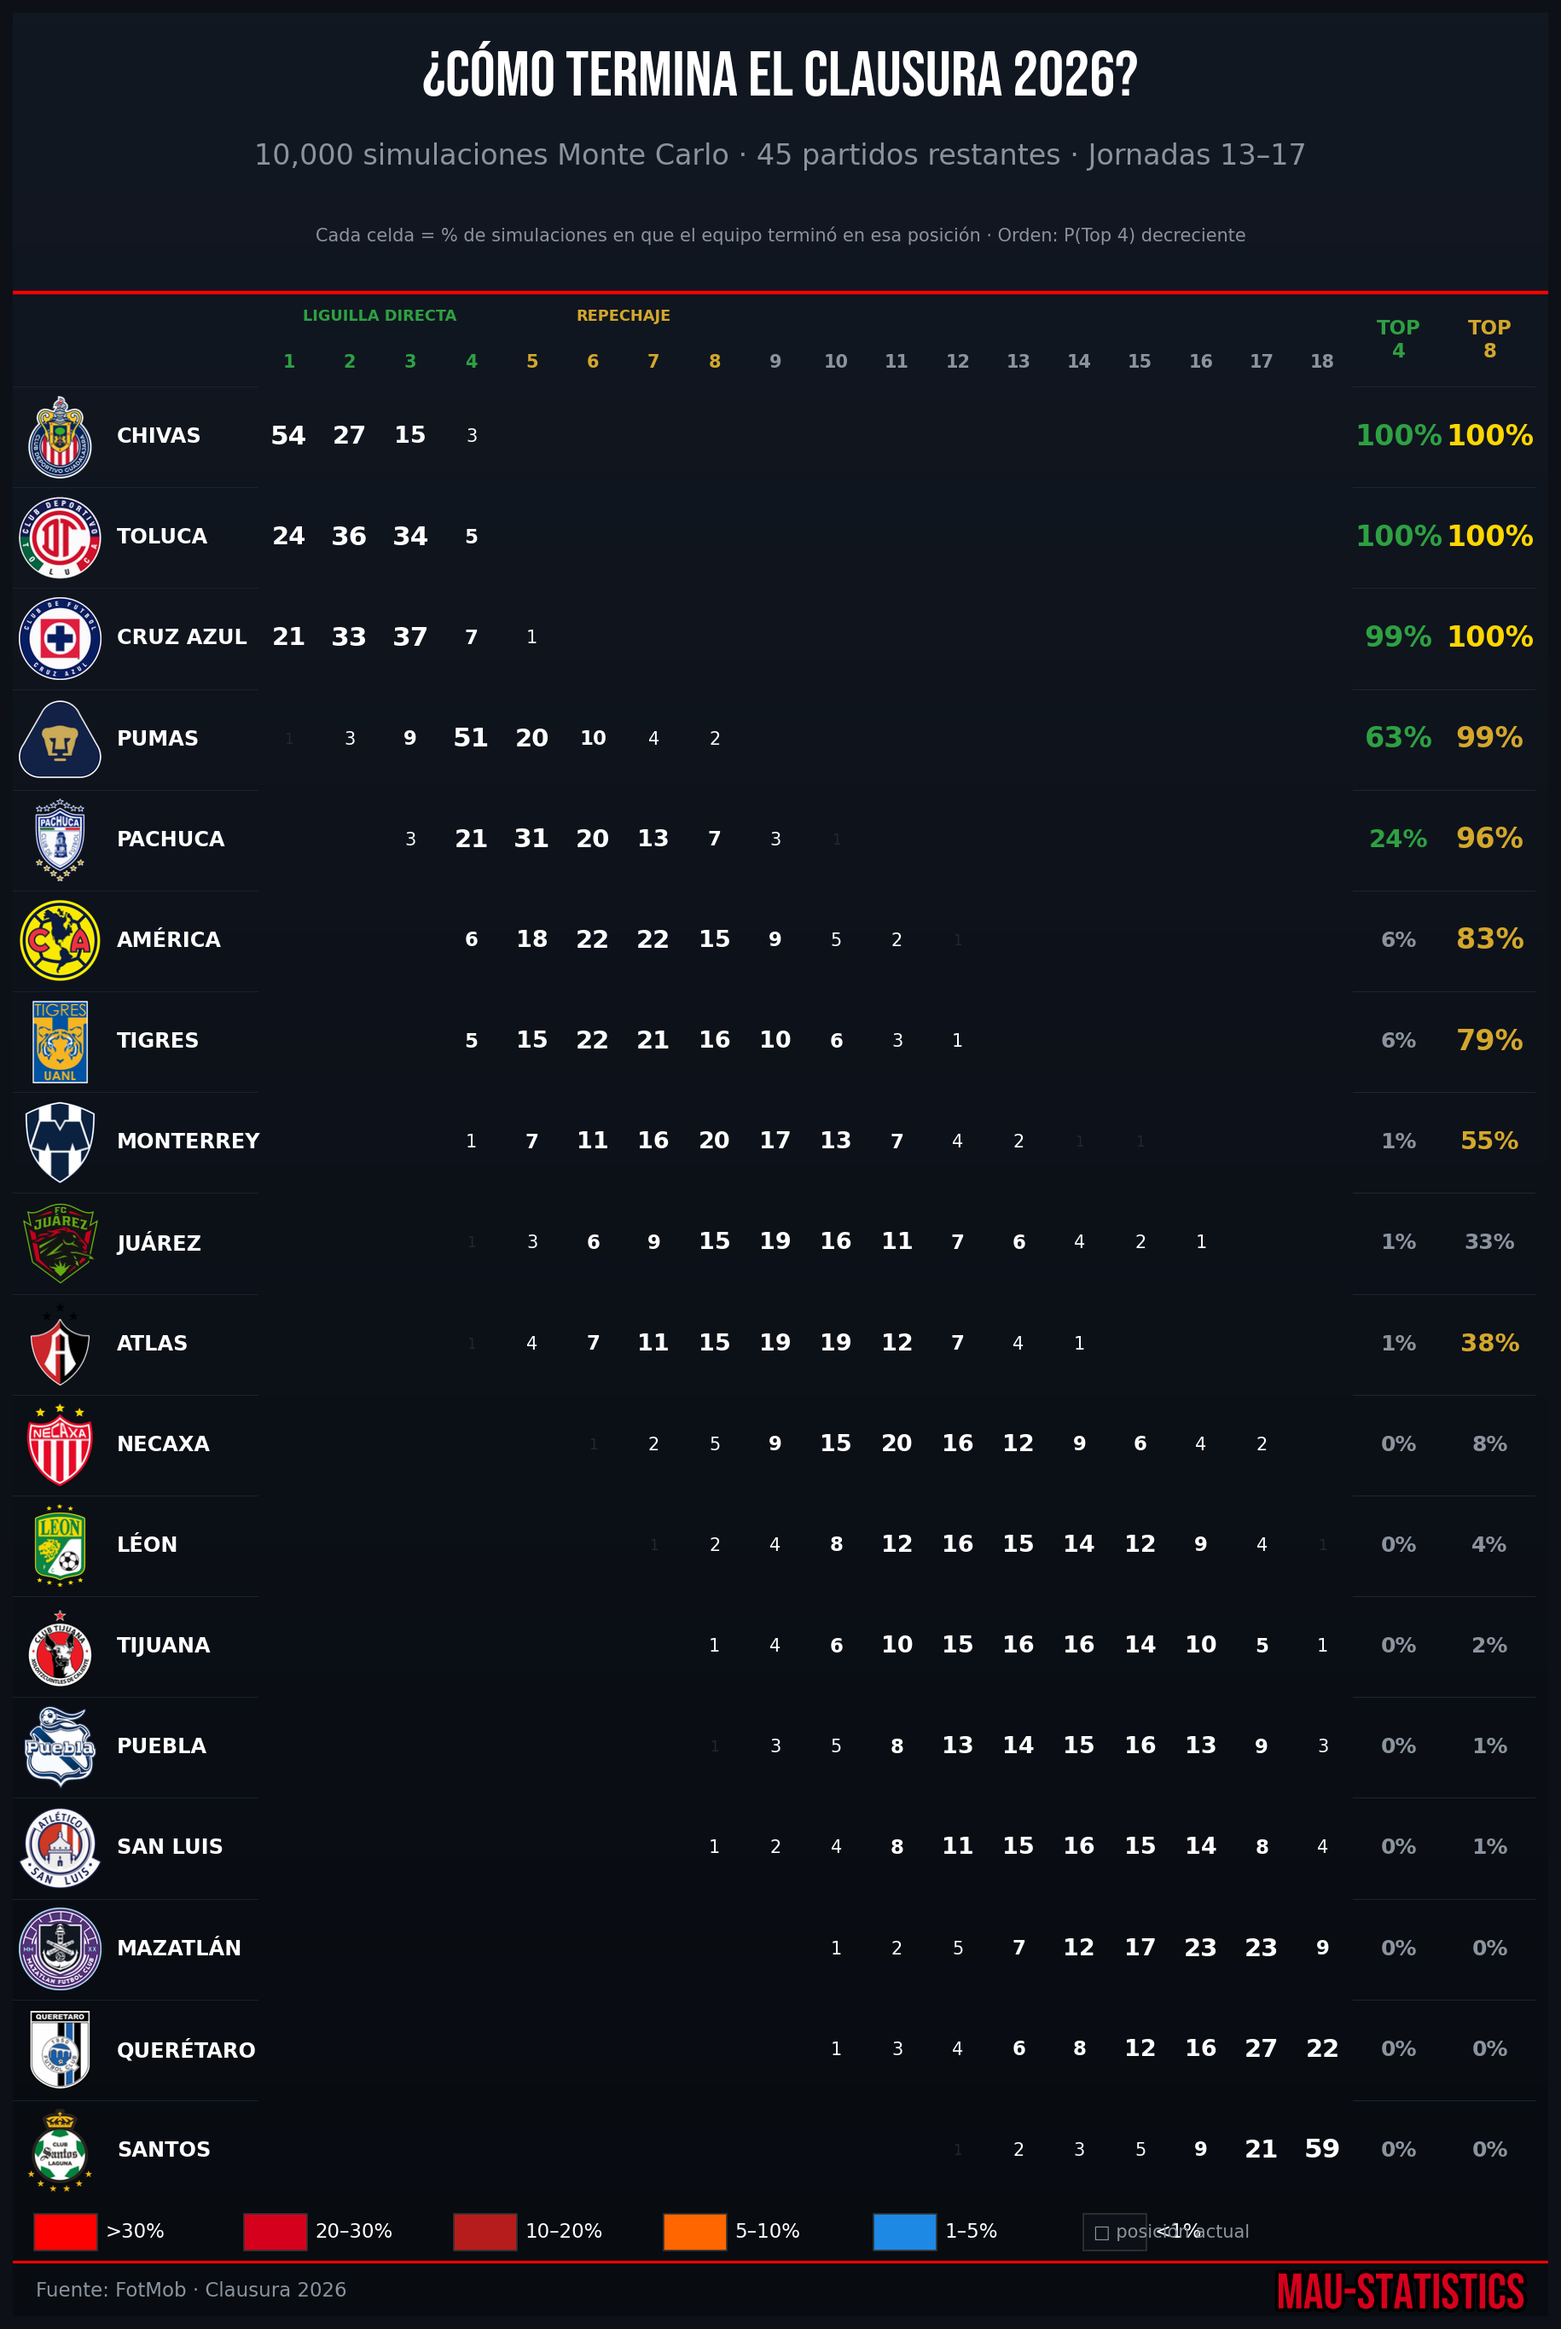
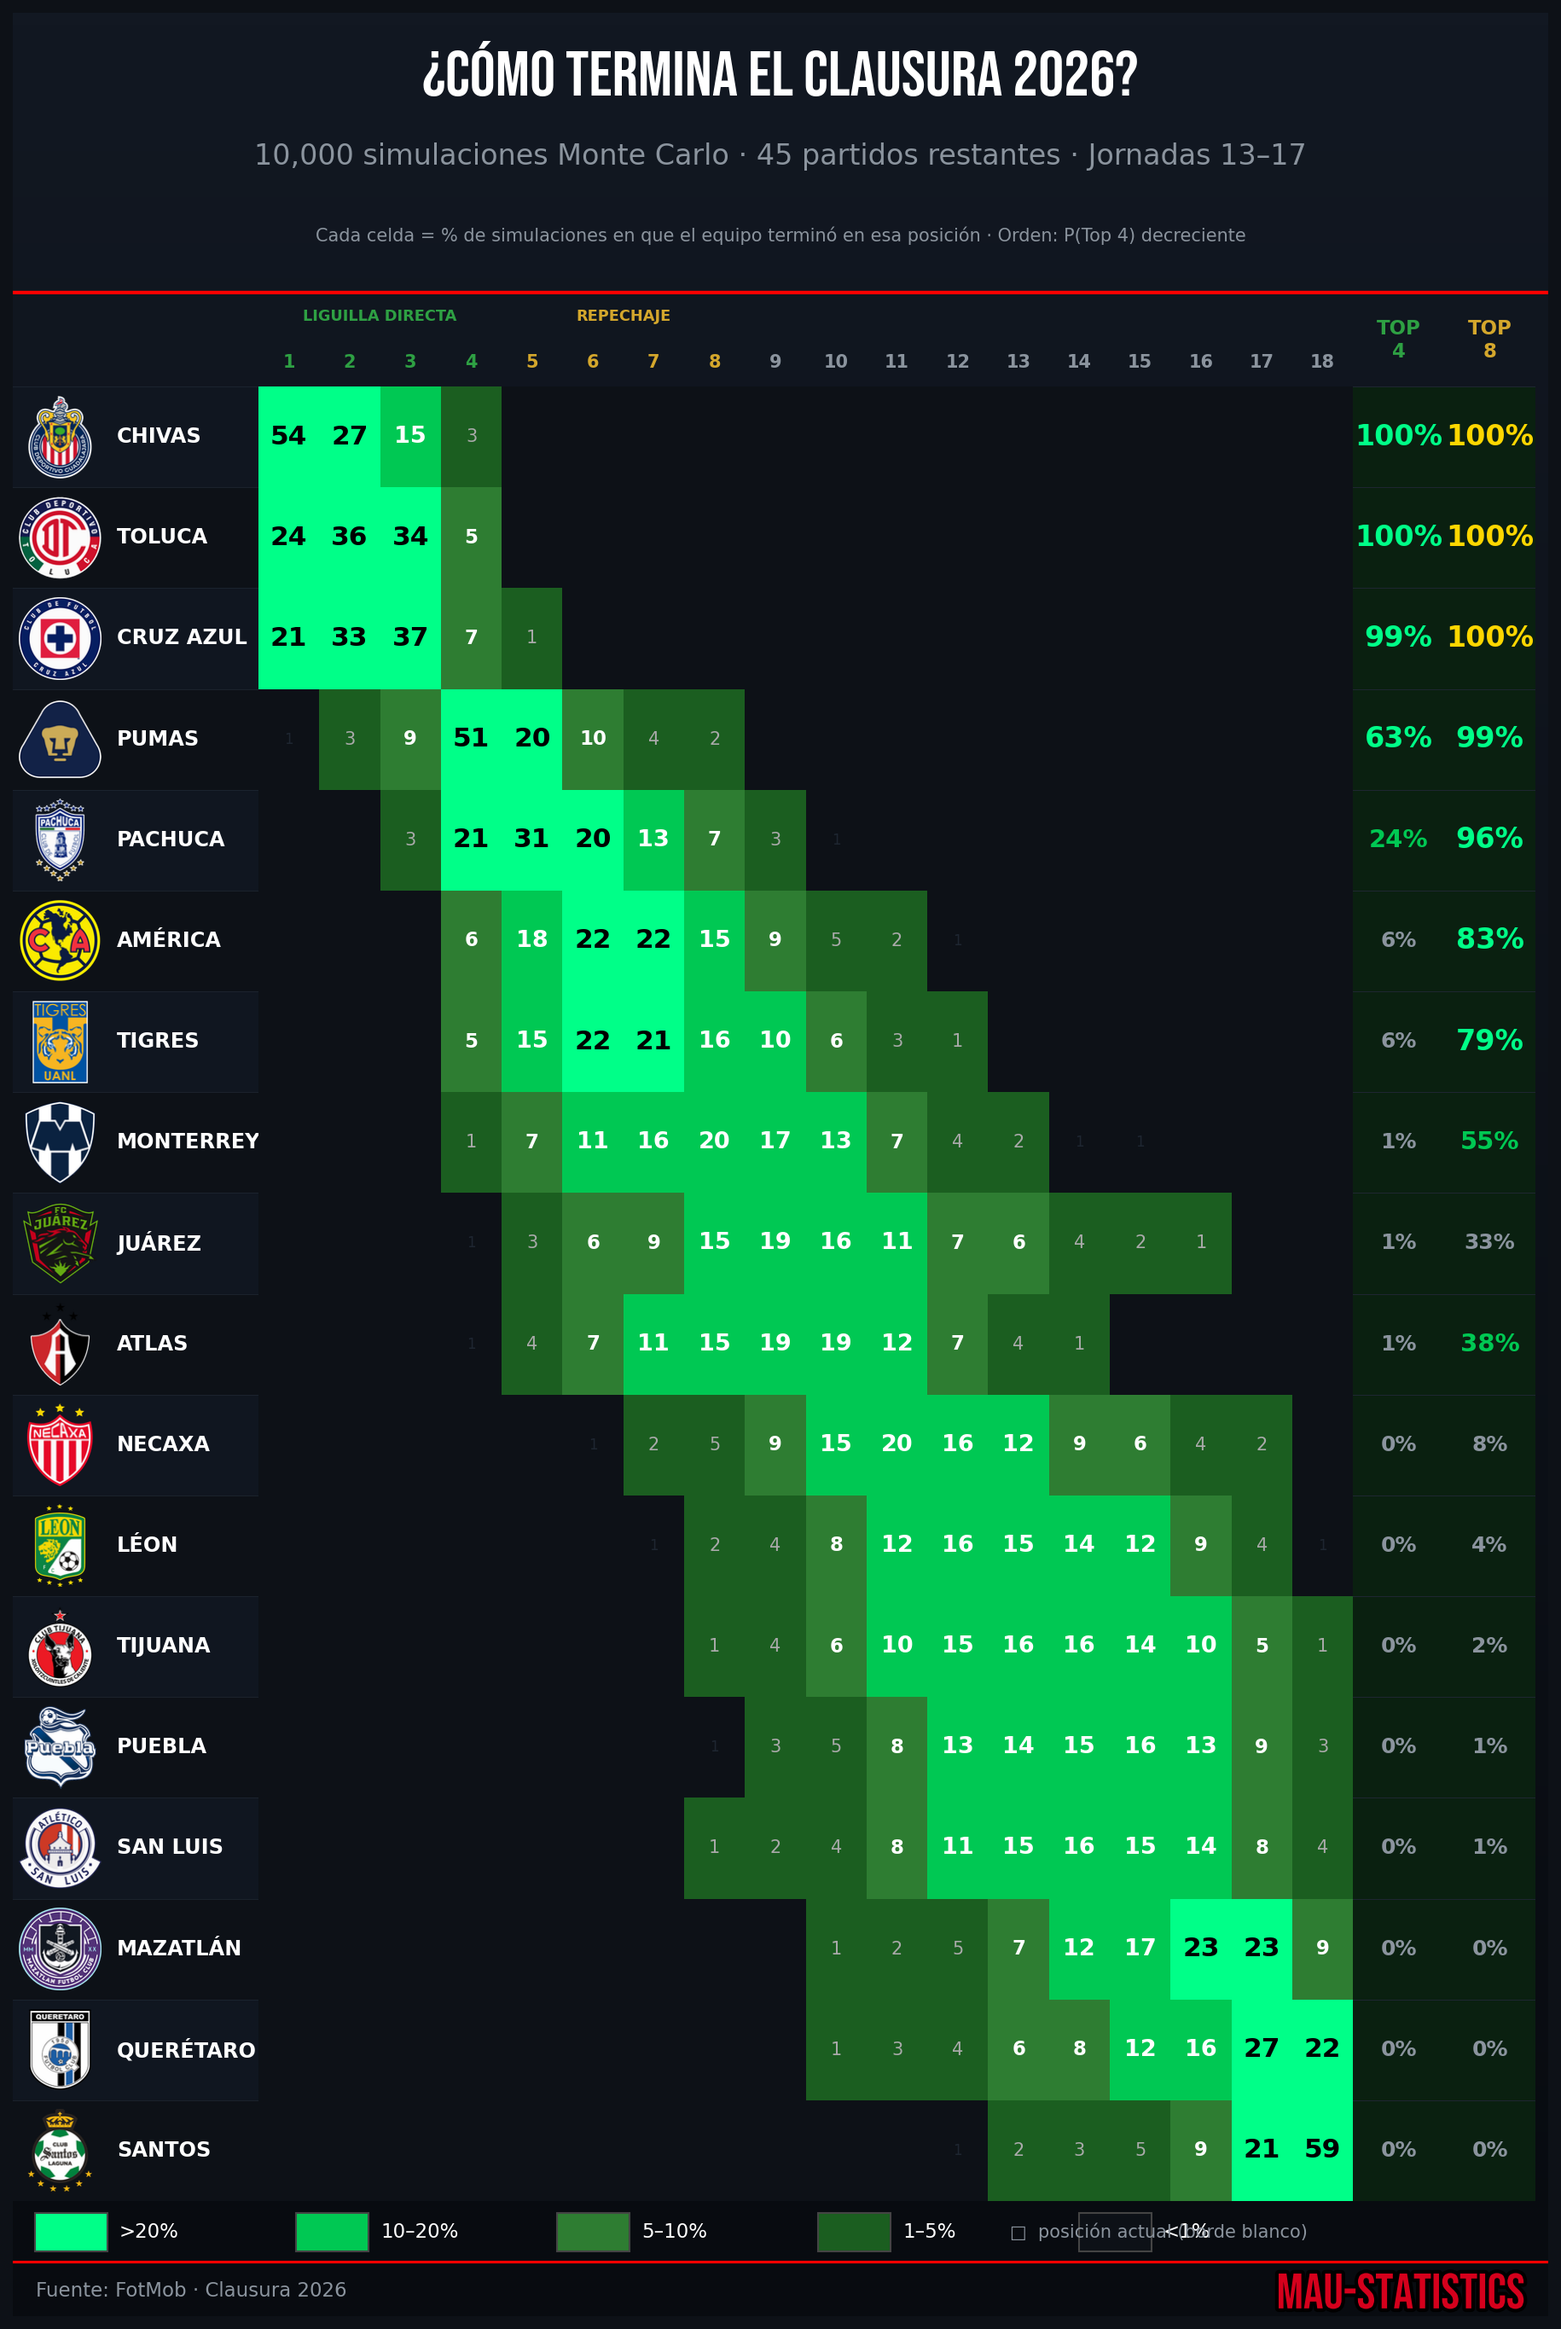
fix: bug celdas transparentes montecarlo + paleta verde quetzal
- paint_cell() usa Rectangle sólido — axis('off') ocultaba el patch
- bgax en zorder -100 para nunca tapar celdas
- Gradiente verde neón #00FF88 → esmeralda → oscuro
- Debug prints confirmaron asignación correcta de colores

diff --git a/scripts/14_simulacion_montecarlo.py b/scripts/14_simulacion_montecarlo.py
@@ -309,13 +309,14 @@ def render(teams_sorted, prob_matrix, tabla_base, output_path):
 
     fig = plt.figure(figsize=(FIG_W, FIG_H), facecolor=BG)
 
-    # ── BACKGROUND GRADIENT ───────────────────────────────────────────────────
+    # ── BACKGROUND (fondo sólido — bgax en zorder mínimo para no tapar celdas)
     grad = np.zeros((200, 2, 3))
     for ii in range(200):
         t = ii / 199
         grad[ii] = (np.array([0x08,0x0b,0x10])/255*(1-t)
                    + np.array([0x12,0x18,0x22])/255*t)
     bgax = fig.add_axes([0, 0, 1, 1])
+    bgax.set_zorder(-100)          # SIEMPRE detrás de todas las celdas
     bgax.imshow(grad, aspect='auto', extent=[0,1,0,1], origin='lower')
     bgax.axis('off')
 
@@ -377,17 +378,33 @@ def render(teams_sorted, prob_matrix, tabla_base, output_path):
         shax.text(0.5, 0.5, lbl, color=fg_c, ha='center', va='center',
                   fontsize=11, fontweight='bold', transform=shax.transAxes)
 
-    # ── CELL COLOR SCHEME ─────────────────────────────────────────────────────
+    # ── CELL COLOR SCHEME — VERDE QUETZAL ────────────────────────────────────
     def cell_style(prob):
         """(face_color, text_color, bold, font_size)"""
-        if prob > 0.30:   return '#FF0000', '#ffffff', True,  15
-        elif prob > 0.20: return '#D5001C', '#ffffff', True,  14
-        elif prob > 0.10: return '#B71C1C', '#ffffff', True,  13
-        elif prob > 0.05: return '#FF6600', '#ffffff', True,  11
-        elif prob > 0.01: return '#1E88E5', '#ffffff', False, 10
-        else:             return '#0d1117', '#222831', False,  8
+        if prob > 0.20:   return '#00FF88', '#000000', True,  15   # verde neón — texto negro
+        elif prob > 0.10: return '#00C853', '#ffffff', True,  13   # esmeralda
+        elif prob > 0.05: return '#2E7D32', '#ffffff', True,  11   # verde medio
+        elif prob > 0.01: return '#1B5E20', '#aaaaaa', False, 10   # verde oscuro
+        else:             return '#0d1117', '#1e2631', False,  8   # casi negro — sin texto
+
+    def paint_cell(ax, fc, alpha=1.0):
+        """Pinta el fondo de un axes con un rectángulo sólido (evita el bug de axis('off'))."""
+        ax.set_xlim(0, 1); ax.set_ylim(0, 1)
+        ax.add_patch(mpatches.Rectangle(
+            (0, 0), 1, 1, facecolor=fc, edgecolor='none',
+            zorder=0, transform=ax.transAxes, clip_on=False, alpha=alpha))
+        ax.axis('off')
 
     BADGE_S = 96
+
+    # ── DEBUG: primera fila (equipo con mayor P(top4)) ───────────────────────
+    debug_team = teams_sorted[0]
+    debug_row  = prob_matrix[debug_team]
+    print(f'\n[DEBUG] Colores asignados — fila: {debug_team}')
+    for j in range(min(6, N_POS)):
+        p = debug_row.get(j + 1, 0.0)
+        fc, tc, bold, fs = cell_style(p)
+        print(f'  pos {j+1:2d}: prob={p*100:5.1f}%  fc={fc}  tc={tc}  fs={fs}')
 
     # ── TEAM ROWS ─────────────────────────────────────────────────────────────
     for i, team in enumerate(teams_sorted):
@@ -398,7 +415,7 @@ def render(teams_sorted, prob_matrix, tabla_base, output_path):
 
         # ── Left column: crest + full name ───────────────────────────────────
         lcol = fig.add_axes([0, row_y, LEFT_X, ROW_H])
-        lcol.set_facecolor(row_bg); lcol.axis('off')
+        paint_cell(lcol, row_bg)
         lcol.axhline(1, color='#1e2631', lw=0.8)
 
         shield = get_shield(team, BADGE_S)
@@ -407,6 +424,8 @@ def render(teams_sorted, prob_matrix, tabla_base, output_path):
             bw = bh * AR
             sax = fig.add_axes([0.004, row_y + (ROW_H - bh) / 2, bw, bh])
             sax.set_facecolor('#f8f8fc')
+            sax.patch.set_facecolor('#f8f8fc')
+            sax.patch.set_visible(True)
             sax.imshow(shield); sax.axis('off')
         else:
             bw = 0.0
@@ -423,69 +442,69 @@ def render(teams_sorted, prob_matrix, tabla_base, output_path):
             is_diag = (j == diag_col)
 
             cax = fig.add_axes([pos_col_x[j], row_y, POS_W, ROW_H])
-            cax.set_facecolor(fc); cax.axis('off')
+            paint_cell(cax, fc)   # Rectangle sólido, nunca transparente
+
+            # Bordes
             for sp in cax.spines.values():
                 sp.set_visible(True)
                 if is_diag:
-                    sp.set_edgecolor('#ffffff'); sp.set_linewidth(1.8)
+                    sp.set_edgecolor('#ffffff'); sp.set_linewidth(2.0)
                 else:
                     sp.set_edgecolor('#1e2631'); sp.set_linewidth(0.4)
 
-            if prob >= 0.005:     # show text for ≥0.5%
+            if prob >= 0.005:
                 cax.text(0.5, 0.5, f'{prob*100:.0f}',
                          color=tc, ha='center', va='center',
                          fontsize=fs, fontweight='bold' if bold else 'normal',
-                         transform=cax.transAxes)
+                         transform=cax.transAxes, zorder=5)
 
-        # ── Summary columns: P(Top4) and P(Top8) ─────────────────────────────
+        # ── Summary columns: P(Top4) y P(Top8) ───────────────────────────────
         p4 = sum(prob_row.get(p, 0) for p in range(1, 5))
         p8 = sum(prob_row.get(p, 0) for p in range(1, 9))
 
         for sx, pval, bg_s, border_c, hi_thresh, mid_thresh in [
-                (sum4_x, p4, '#0d2818', '#2ea043', 0.50, 0.20),
-                (sum8_x, p8, '#221c00', '#d4a72c', 0.70, 0.35)]:
+                (sum4_x, p4, '#0a2010', '#00C853', 0.50, 0.20),
+                (sum8_x, p8, '#0a2010', '#2E7D32', 0.70, 0.35)]:
             sumax = fig.add_axes([sx, row_y, SUM_W, ROW_H])
-            sumax.set_facecolor(bg_s); sumax.axis('off')
+            paint_cell(sumax, bg_s)
             sumax.axhline(1, color='#1e2631', lw=0.5)
             for sp in sumax.spines.values():
-                sp.set_visible(True); sp.set_edgecolor(border_c); sp.set_linewidth(0.8)
+                sp.set_visible(True); sp.set_edgecolor(border_c); sp.set_linewidth(1.2)
 
-            # 100% = gold, high = green/yellow, low = gray
             if pval >= 0.999:
                 tc_s, fs_s = '#FFD700', 16
             elif pval >= hi_thresh:
-                tc_s, fs_s = border_c, 16
+                tc_s, fs_s = '#00FF88', 16
             elif pval >= mid_thresh:
-                tc_s, fs_s = border_c, 14
+                tc_s, fs_s = '#00C853', 14
             else:
                 tc_s, fs_s = GRAY, 12
 
             sumax.text(0.5, 0.5, f'{pval*100:.0f}%',
                        color=tc_s, ha='center', va='center',
                        fontsize=fs_s, fontweight='bold',
-                       transform=sumax.transAxes)
+                       transform=sumax.transAxes, zorder=5)
 
     # ── LEGEND ───────────────────────────────────────────────────────────────
     leg_y = FOOTER_H * 0.54
     leg_h = FOOTER_H * 0.38
-    lax = fig.add_axes([0.01, leg_y, 0.82, leg_h])
+    lax = fig.add_axes([0.01, leg_y, 0.85, leg_h])
     lax.set_xlim(0, 1); lax.set_ylim(0, 1); lax.axis('off')
     legend_items = [
-        ('>30%', '#FF0000', '#fff'),
-        ('20–30%', '#D5001C', '#fff'),
-        ('10–20%', '#B71C1C', '#fff'),
-        ('5–10%', '#FF6600', '#fff'),
-        ('1–5%', '#1E88E5', '#fff'),
-        ('<1%', '#0d1117', '#444'),
+        ('>20%',  '#00FF88', '#000'),
+        ('10–20%','#00C853', '#fff'),
+        ('5–10%', '#2E7D32', '#fff'),
+        ('1–5%',  '#1B5E20', '#aaa'),
+        ('<1%',   '#0d1117', '#444'),
     ]
     step = 1.0 / len(legend_items)
-    for k, (lbl, fc, _) in enumerate(legend_items):
+    for k, (lbl, fc, tc) in enumerate(legend_items):
         bx = k * step
-        lax.add_patch(mpatches.Rectangle((bx + 0.005, 0.08), step*0.30, 0.84,
-                      facecolor=fc, edgecolor='#333', lw=0.8))
-        lax.text(bx + step*0.32 + 0.008, 0.50, lbl,
+        lax.add_patch(mpatches.Rectangle((bx + 0.005, 0.06), step*0.28, 0.88,
+                      facecolor=fc, edgecolor='#444', lw=1.0))
+        lax.text(bx + step*0.30 + 0.010, 0.50, lbl,
                  color=WHITE, va='center', fontsize=11)
-    lax.text(0.97, 0.50, '□ posición actual',
+    lax.text(0.98, 0.50, '□  posición actual (borde blanco)',
              color=PALETTE['text_secondary'], va='center', ha='right', fontsize=10)
 
     # ── FOOTER ───────────────────────────────────────────────────────────────
